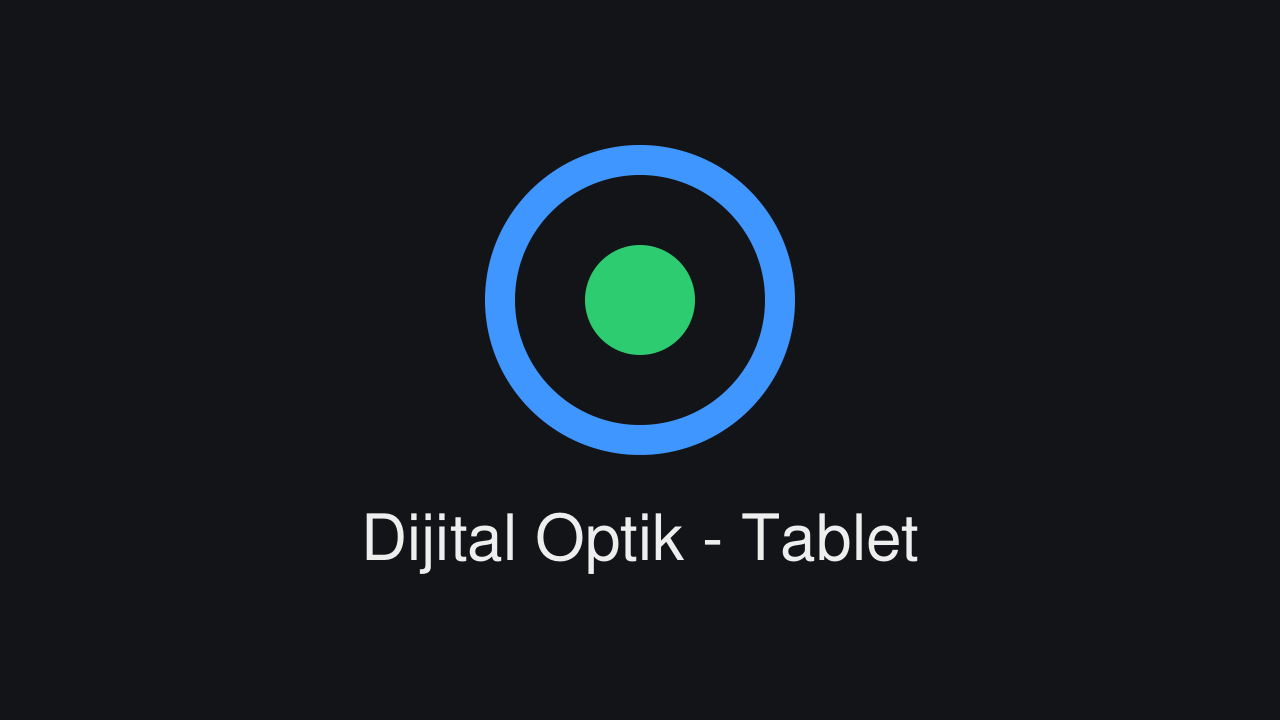
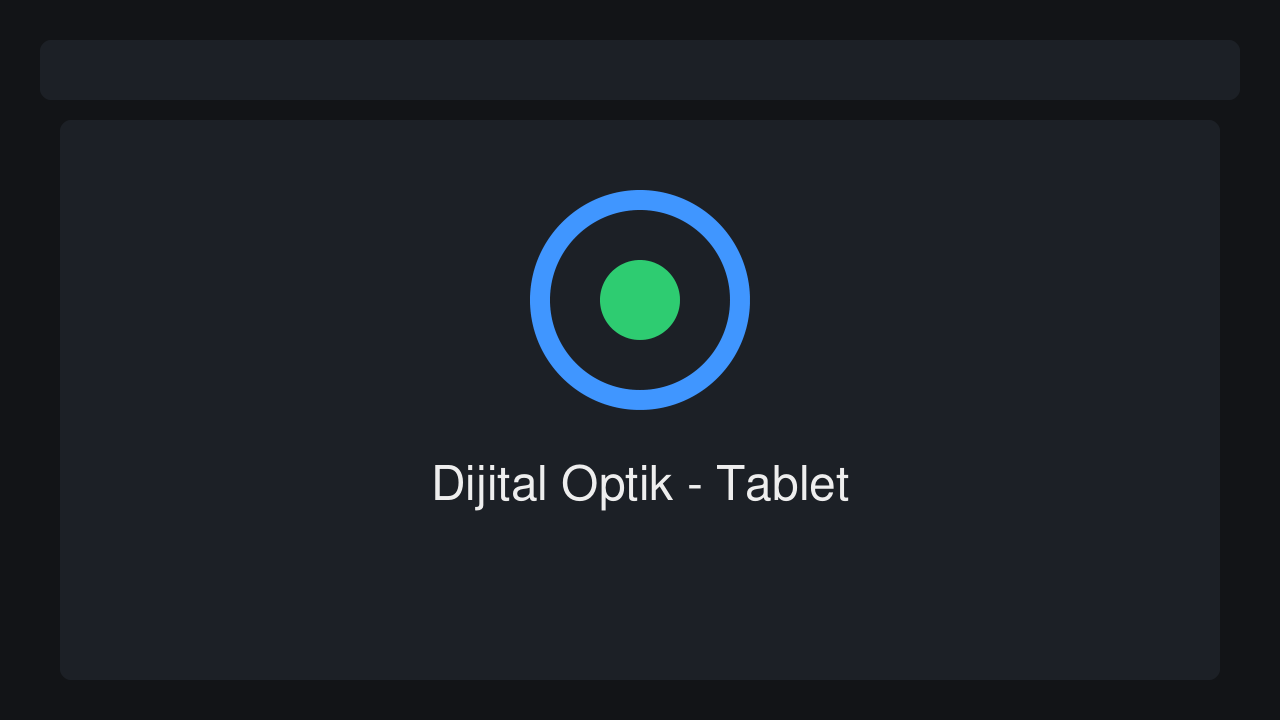
ikon maskable + screenshot (PWABuilder tam puan)

Changed region(s): [[0.2812, 0.1833, 0.625, 0.7944], [0.5625, 0.6417, 0.7188, 0.7944]]

diff --git a/make_icon.py b/make_icon.py
@@ -1,19 +1,28 @@
-# make_icon.py
 import fitz
-doc = fitz.open("icon.svg")
+
+svg = '''<svg xmlns="http://www.w3.org/2000/svg" width="512" height="512">
+<rect width="512" height="512" rx="96" fill="#121417"/>
+<circle cx="256" cy="256" r="150" fill="none" stroke="#4096ff" stroke-width="36"/>
+<circle cx="256" cy="256" r="60" fill="#2ecc71"/>
+</svg>'''
+
+doc = fitz.open(stream=svg.encode(), filetype="svg")
 page = doc[0]
 zoom = 512 / page.rect.width
-pix = page.get_pixmap(matrix=fitz.Matrix(zoom, zoom))
+pix = page.get_pixmap(matrix=fitz.Matrix(zoom, zoom), alpha=False)
 pix.save("icon-512.png")
-print("✅ icon-512.png hazır:", pix.width, "x", pix.height)
-svg = '''<svg xmlns="http://www.w3.org/2000/svg" width="1280" height="720">
+print("✅ icon-512.png:", pix.width, "x", pix.height)
+svg_screenshot = '''<svg xmlns="http://www.w3.org/2000/svg" width="1280" height="720">
 <rect width="1280" height="720" fill="#121417"/>
-<circle cx="640" cy="300" r="140" fill="none" stroke="#4096ff" stroke-width="30"/>
-<circle cx="640" cy="300" r="55" fill="#2ecc71"/>
-<text x="640" y="560" font-size="64" fill="#eeeeee" text-anchor="middle" font-family="sans-serif">Dijital Optik - Tablet</text>
+<rect x="40" y="40" width="1200" height="60" rx="10" fill="#1c2026"/>
+<rect x="60" y="120" width="1160" height="560" rx="10" fill="#1c2026"/>
+<circle cx="640" cy="300" r="100" fill="none" stroke="#4096ff" stroke-width="20"/>
+<circle cx="640" cy="300" r="40" fill="#2ecc71"/>
+<text x="640" y="500" font-size="48" fill="#eeeeee" text-anchor="middle" font-family="sans-serif">Dijital Optik - Tablet</text>
 </svg>'''
-doc = fitz.open(stream=svg.encode(), filetype="svg")
-pg = doc[0]
-pix = pg.get_pixmap(matrix=fitz.Matrix(1280/pg.rect.width, 720/pg.rect.height))
-pix.save("screenshot-1280.png")
-print("✅ screenshot-1280.png hazır")
+
+doc2 = fitz.open(stream=svg_screenshot.encode(), filetype="svg")
+pg2 = doc2[0]
+pix2 = pg2.get_pixmap(matrix=fitz.Matrix(1280/pg2.rect.width, 720/pg2.rect.height), alpha=False)
+pix2.save("screenshot-1280.png")
+print("✅ screenshot-1280.png:", pix2.width, "x", pix2.height)
